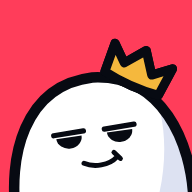
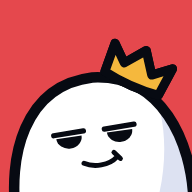
fix(client): stable leaderboard ranks, a clear red state, a quieter coach
From the coordinator's palette review:
- Near-equal blobs swapped places every refresh, so rows briefly showed ranks out
  of order. Ranking now sorts on the rounded equity the row shows, ties by id.
- My own blob gets a thin paper ring inside its rim so 'me' reads at a glance.
- Red is unmistakable: the ring is twice as thick and pulses wider, and the screen
  frame is firmer with an ink inner line and a faint tint.
- The coach bubble is smaller, shows each tip for 6 s, and never appears while
  the player is in danger.
Also: the Fat cat favicon, PWA and landing icons re-exported in #E5484D, and the
perf script keeps rAF running in a hidden window.

Task: U31

diff --git a/apps/client/src/hud/coach.ts b/apps/client/src/hud/coach.ts
@@ -5,8 +5,7 @@
 import type { Phase } from "@margin/core";
 
 const KEY = "margin.coached";
-const BOOST_UNTIL_S = 10;
-const DONE_AT_S = 22;
+const BUBBLE_S = 6;
 
 function seen(): boolean {
   try {
@@ -26,7 +25,7 @@ function markSeen(): void {
 
 export interface Coach {
   /** Call every frame: elapsed match seconds and whether I have borrowed yet. */
-  update(phase: Phase, elapsedS: number, boosted: boolean): void;
+  update(phase: Phase, elapsedS: number, boosted: boolean, danger: boolean): void;
   close(): void;
 }
 
@@ -36,6 +35,8 @@ export function coachMarks(root: HTMLElement, touch: boolean): Coach {
   el.className = "pointer-events-none fixed inset-0 z-10 hidden";
   root.appendChild(el);
   let step: "" | "boost" | "repay" = "";
+  let shownAt = 0;
+  let lastE = 0;
   let done = false;
 
   const close = (): void => {
@@ -48,11 +49,12 @@ export function coachMarks(root: HTMLElement, touch: boolean): Coach {
     step = s;
     const boost = s === "boost";
     const text = boost
-      ? `<b>${touch ? "Hold" : "Hold SPACE or"} BOOST</b> to grow and speed up. It is a loan.`
-      : `<b>${touch ? "Tap" : "Press R or tap"} REPAY</b> to pay it back. The only way out of red.`;
+      ? `<b>${touch ? "Hold" : "Hold SPACE:"} BOOST</b>. Grow fast, on a loan.`
+      : `<b>${touch ? "Tap" : "R:"} REPAY</b> pays it back.`;
     // Each bubble sits just left of its own button (BOOST bottom-right, REPAY above it).
     const pos = boost ? "bottom:max(28px,calc(env(safe-area-inset-bottom) + 28px));right:122px" : "bottom:120px;right:98px";
-    el.innerHTML = `<div class="sticker absolute flex max-w-64 items-center gap-2 rounded-box bg-paper px-3 py-2 text-sm text-ink" style="${pos}">
+    shownAt = lastE;
+    el.innerHTML = `<div class="sticker absolute flex max-w-52 items-center gap-2 rounded-box bg-paper px-2.5 py-1.5 text-xs text-ink" style="${pos}">
       <span>${text}</span><b class="font-display text-lg text-liq">→</b>
       <button data-got class="pointer-events-auto tag shrink-0 rounded-field border-2 border-ink px-2 py-0.5 text-[11px]">OK</button></div>`;
     el.querySelector("[data-got]")!.addEventListener("click", () => (boost ? show("repay") : close()));
@@ -60,12 +62,15 @@ export function coachMarks(root: HTMLElement, touch: boolean): Coach {
   };
 
   return {
-    update(phase, e, boosted) {
+    update(phase, e, boosted, danger) {
       if (done) return;
-      if (phase === "ENDED" || (phase === "LIVE" && e >= DONE_AT_S)) return close();
+      lastE = e;
+      // In danger the screen belongs to the margin call: never cover it with a tip.
+      if (phase === "ENDED" || danger) return close();
       if (phase !== "LIVE") return;
-      if (step === "" ) show("boost");
-      else if (step === "boost" && (boosted || e >= BOOST_UNTIL_S)) show("repay");
+      if (step === "") show("boost");
+      else if (step === "boost" && (boosted || e - shownAt >= BUBBLE_S)) show("repay");
+      else if (step === "repay" && e - shownAt >= BUBBLE_S) close();
     },
     close,
   };

diff --git a/apps/client/src/render/blob.ts b/apps/client/src/render/blob.ts
@@ -22,6 +22,7 @@ export class BlobSprite extends Container {
   private prev = { x: 0, y: 0, speed: 0 };
   private fill = 0;
   private calm = false;
+  private isMe = false;
 
   constructor(v: BlobView, isMe: boolean) {
     super();
@@ -62,7 +63,7 @@ export class BlobSprite extends Container {
     const hz = reducedMotion ? 0 : v.ring === "red" ? 4 : v.ring === "yellow" ? 1 : 0;
     const p = hz ? 0.5 + 0.5 * Math.sin(tS * hz * Math.PI * 2) : 1;
     this.ring.alpha = hz ? 0.55 + 0.45 * p : 1;
-    this.ring.scale.set(v.ring === "red" ? 1 + 0.05 * p : 1);
+    this.ring.scale.set(v.ring === "red" ? 1 + 0.08 * p : 1);
     this.warnSign.alpha = 0.6 + 0.4 * p;
   }
 
@@ -79,6 +80,8 @@ export class BlobSprite extends Container {
       pts.push(Math.cos(a) * rr, Math.sin(a) * rr);
     }
     this.body.clear().poly(pts).fill(this.fill).stroke({ width: Math.max(3, r * 0.06), color: darken(this.fill) });
+    // My own blob: a thin paper ring just inside the rim, so "me" reads at a glance.
+    if (this.isMe) this.body.circle(0, 0, r * 0.86).stroke({ width: Math.max(2, r * 0.035), color: 0xffffff, alpha: 0.75 });
   }
 
   private redraw(v: BlobView, isMe: boolean): void {
@@ -93,10 +96,11 @@ export class BlobSprite extends Container {
       return;
     }
     this.fill = vivid(v.id);
+    this.isMe = isMe;
     this.membrane(r, 0, true);
     const rr = r + RING_GAP;
     // Ink under every ring (sticker outline): green, amber and red read on any fill and floor.
-    const w = v.ring === "red" ? RING_W + 2 : RING_W;
+    const w = v.ring === "red" ? RING_W * 2 : RING_W;
     this.ring.circle(0, 0, rr).stroke({ width: w + 3, color: C.ink, alpha: 0.85 });
     if (v.ring === "yellow") dashed(this.ring, rr, C.ringWarn);
     else this.ring.circle(0, 0, rr).stroke({ width: w, color: v.ring === "red" ? C.liq : C.ringSafe });

diff --git a/apps/client/src/hud/hud.css b/apps/client/src/hud/hud.css
@@ -34,7 +34,8 @@
 @keyframes beat { 0%, 100% { opacity: 1; } 50% { opacity: 0.35; } }
 .call-frame { position: fixed; inset: 0; pointer-events: none; border: 0 solid transparent; transition: border-width 150ms; }
 .call-frame[data-ring="yellow"] { border-width: 6px; border-color: var(--color-warn); animation: beat 1s ease-in-out infinite; }
-.call-frame[data-ring="red"] { border-width: 14px; border-color: var(--color-liq); animation: beat 0.45s ease-in-out infinite; }
+.call-frame[data-ring="red"] { border-width: 16px; border-color: var(--color-liq); box-shadow: inset 0 0 0 4px var(--color-ink), inset 0 0 0 9999px rgb(229 72 77 / 0.07); animation: redbeat 0.45s ease-in-out infinite; }
+@keyframes redbeat { 0%, 100% { opacity: 1; } 50% { opacity: 0.6; } }
 /* Red: REPAY is the only way out, so the button itself throbs and grows (shape + motion). */
 @keyframes urgent { 0%, 100% { transform: scale(1); box-shadow: 0 0 0 0 var(--color-liq); } 50% { transform: scale(1.18); box-shadow: 0 0 0 8px var(--color-liq); } }
 .urgent { animation: urgent 0.45s ease-in-out infinite; }

diff --git a/apps/client/src/hud/logic.ts b/apps/client/src/hud/logic.ts
@@ -54,7 +54,11 @@ export function boostPreview(me: BlobView): { next: number; max: number } | null
 
 /** All non-popped, non-drone blobs (cashed ones keep their payout) ranked by equity, highest first (same order as the final ranking). */
 export function ranking(blobs: BlobView[]): BlobView[] {
-  return blobs.filter((b) => b.state !== "popped" && b.kind !== "drone").sort((a, b) => b.equity - a.equity);
+  // Sort on the rounded number the row shows, ties by id: near-equal blobs no longer swap
+  // places every refresh, and the rank always matches the visible order.
+  return blobs
+    .filter((b) => b.state !== "popped" && b.kind !== "drone")
+    .sort((a, b) => Math.round(b.equity) - Math.round(a.equity) || (a.id < b.id ? -1 : a.id > b.id ? 1 : 0));
 }
 
 /** conic-gradient for the pip ring: each pip is a 120 degree arc filled 0..1. */

diff --git a/apps/client/src/hud/logic.test.ts b/apps/client/src/hud/logic.test.ts
@@ -51,4 +51,8 @@ describe("hud logic", () => {
     expect(displayName({ kind: "agent", label: "Agent-2" })).toBe("\u{1F916} Agent-2");
     expect(displayName({ kind: "human", label: "riya" })).toBe("riya");
   });
+  it("keeps a stable order for equal shown equity, so ranks match rows", () => {
+    const r = ranking([me({ id: "c", equity: 95.2 }), me({ id: "a", equity: 94.8 }), me({ id: "b", equity: 95.4 }), me({ id: "d", equity: 120 })]);
+    expect(r.map((b) => b.id)).toEqual(["d", "a", "b", "c"]);
+  });
 });

diff --git a/apps/client/src/hud/hud.ts b/apps/client/src/hud/hud.ts
@@ -81,7 +81,7 @@ export class Hud {
       this.lbAt = now;
       this.leaderboard(f);
     }
-    this.coach.update(m.phase, elapsedS(m), (me?.owe ?? 0) > 0);
+    this.coach.update(m.phase, elapsedS(m), (me?.owe ?? 0) > 0, !!me && me.ring !== "green");
     if (!me) return;
     this.fuel(me, boostBlocked(me, m));
     const ring = me.state === "alive" && m.phase === "LIVE" ? me.ring : "green";
